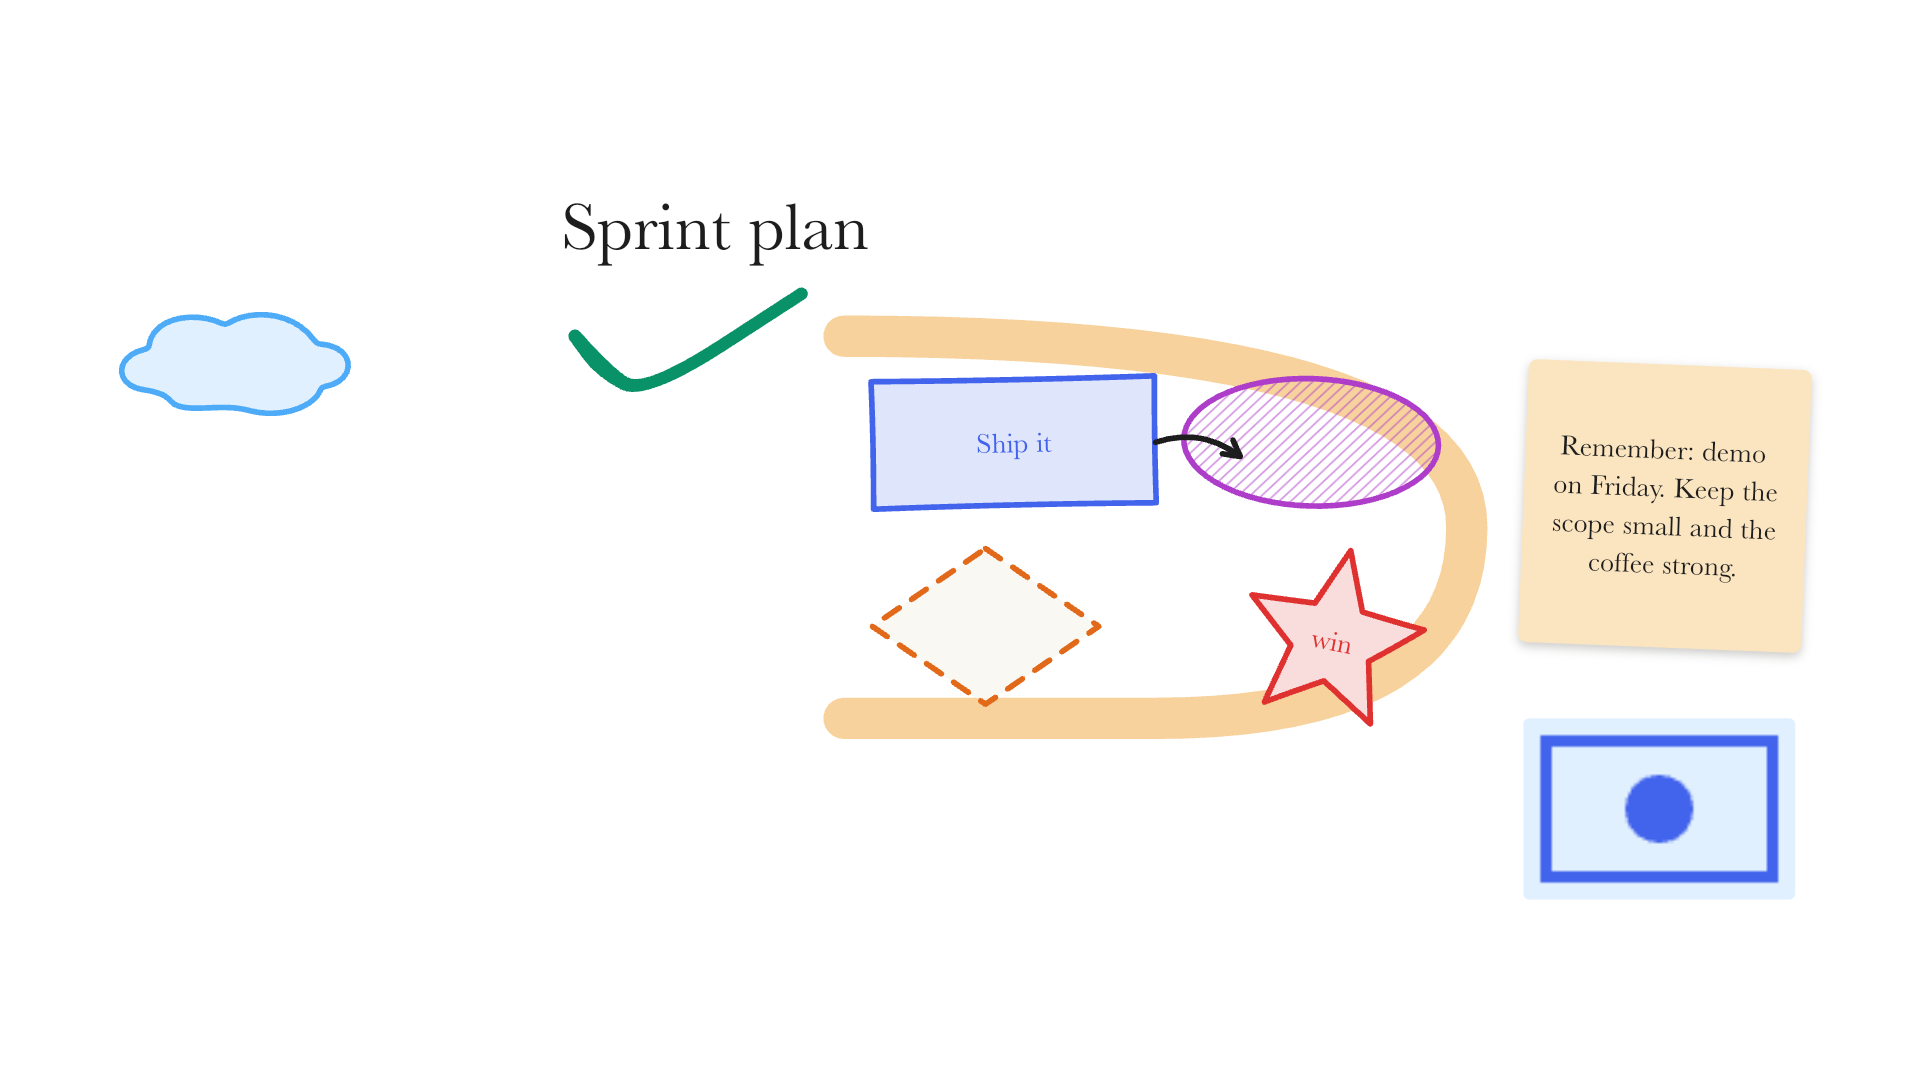
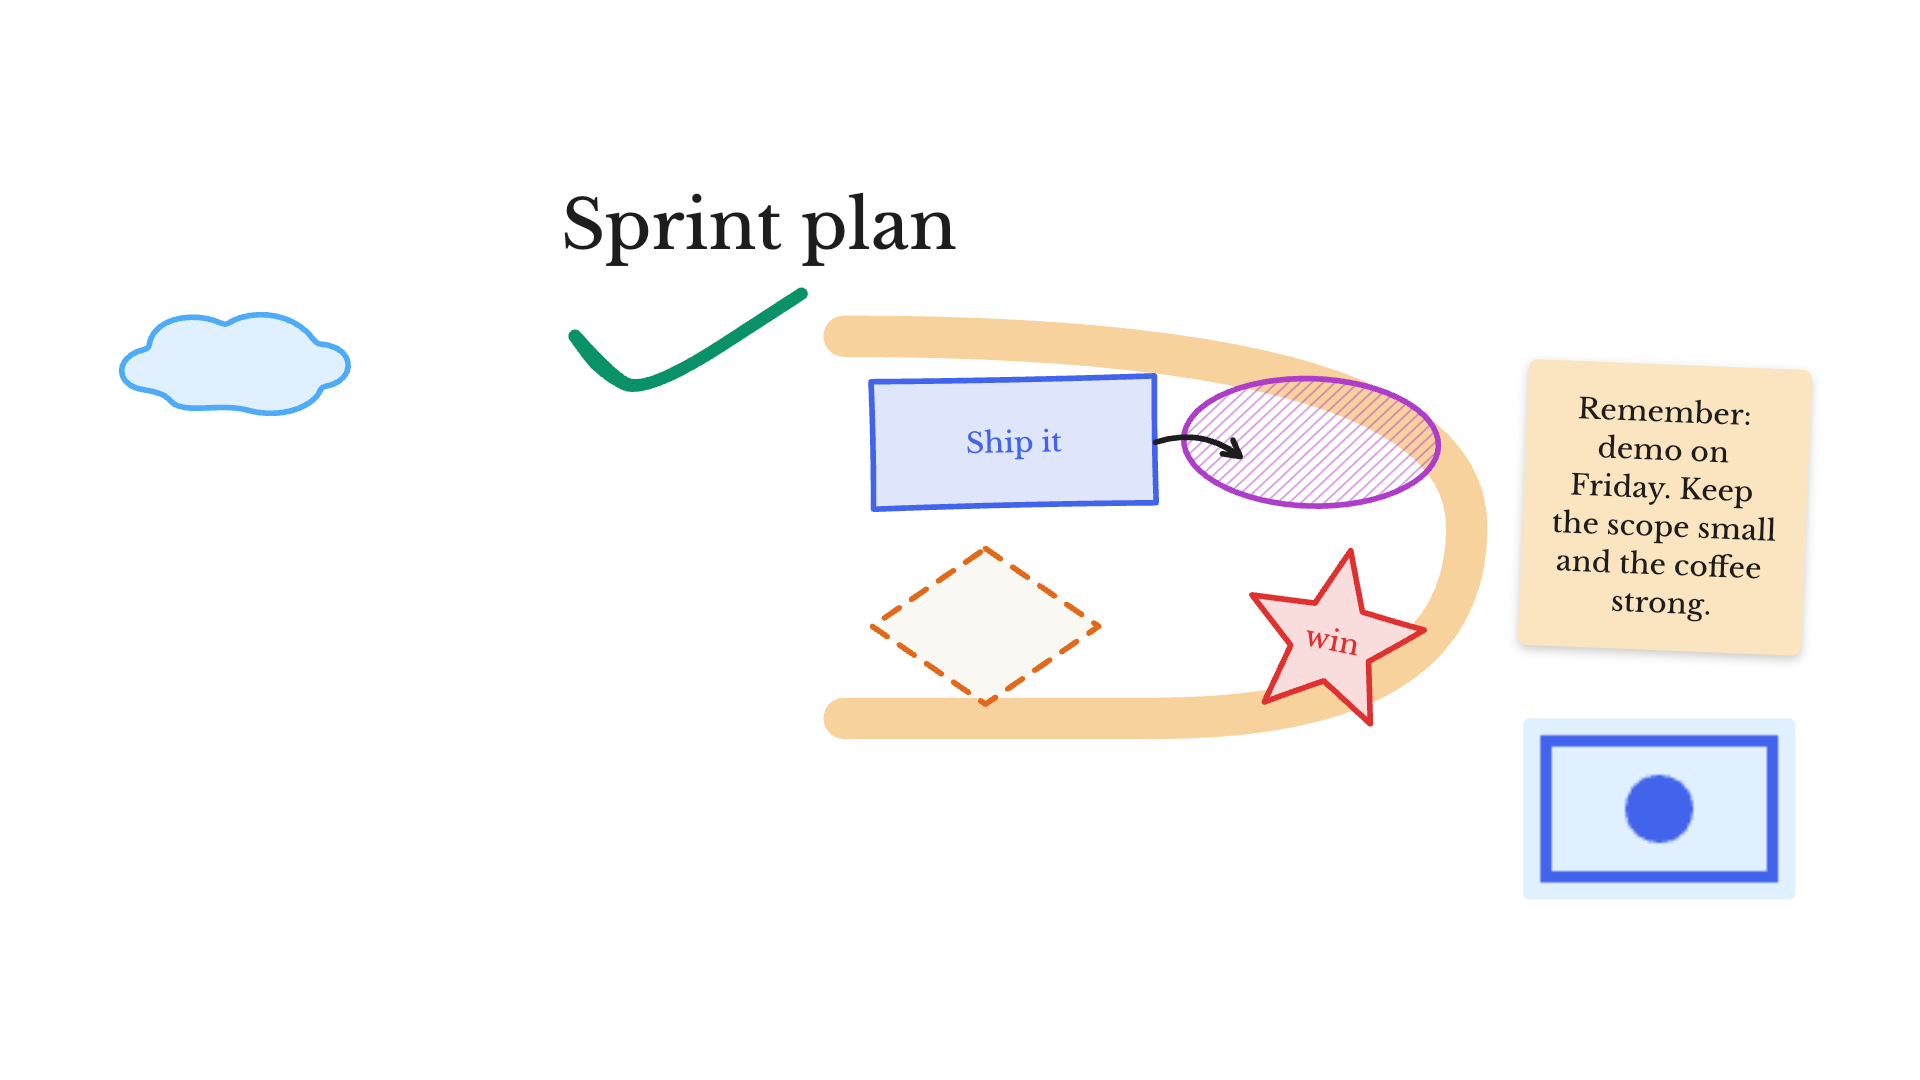
Headless fonts: single-word alias + merged TTF for exact browser metrics
skia-canvas never matched 'Quickdraw Hand' inside the engine's full font
stack (multi-word families only match standalone), so server text silently
measured with a fallback face while the browser used the real webfont.
Register one merged libre-baskerville-500.ttf under 'QuickdrawHand' (also
fixes woff2-shaping and last-file-wins hazards) and head the shared stack
with it; browsers resolve either name to identical files. Probe widths now
match the browser to 0.1px (stack 294.3, Georgia 248.0).

diff --git a/test/render.test.js b/test/render.test.js
@@ -320,16 +320,26 @@ describe('fonts', () => {
     await renderPng(new Store().getSnapshot(), { width: 32, height: 32, padding: 0 })
     const { fontsReady, fontFiles } = await import('../src/fonts.js')
     expect(fontsReady()).toBe(true)
-    // TTF: skia-canvas cannot shape from the woff2 files (silent wrong face)
-    expect(fontFiles().every((f) => f.endsWith('.ttf'))).toBe(true)
+    // Exactly one TTF: skia-canvas cannot shape from woff2, and for a
+    // multi-file family only the last file serves text (the other range
+    // degrades to .notdef) — the TTF is the merged latin+latin-ext face.
+    const files = fontFiles()
+    expect(files).toHaveLength(1)
+    expect(files[0].endsWith('.ttf')).toBe(true)
     const c = new Canvas(8, 8)
     const ctx = c.getContext('2d')
     const probe = 'Remember: demo on Friday'
-    ctx.font = `500 26px 'Quickdraw Hand', 'Libre Baskerville', Georgia, serif`
-    const hand = ctx.measureText(probe).width
-    // ...diverges from the generic serif a silent fallback would use
-    ctx.font = '500 26px serif'
-    expect(Math.abs(hand - ctx.measureText(probe).width)).toBeGreaterThan(10)
+    // the alias must resolve identically alone and inside the full stack:
+    // multi-word aliases fail inside font lists in skia-canvas, which is how
+    // the fallback slipped in undetected the first time
+    ctx.font = '500 20px QuickdrawHand'
+    const aliasOnly = ctx.measureText(probe).width
+    ctx.font = `500 20px 'QuickdrawHand', 'Quickdraw Hand', 'Libre Baskerville', Georgia, serif`
+    const stacked = ctx.measureText(probe).width
+    expect(stacked).toBeCloseTo(aliasOnly, 5)
+    // ...and the bundled Baskerville must actually be active, not a fallback
+    ctx.font = '500 20px serif'
+    expect(Math.abs(stacked - ctx.measureText(probe).width)).toBeGreaterThan(10)
     // ...and rasterizes differently from a Georgia fallback
     const render = (font) => {
       const c2 = new Canvas(400, 60)

diff --git a/src/fonts.js b/src/fonts.js
@@ -9,7 +9,12 @@ import { createRequire } from 'node:module'
 import { existsSync } from 'node:fs'
 import { join, dirname } from 'node:path'
 
-const FAMILY = 'Quickdraw Hand'
+// 'QuickdrawHand' (single word, no space): skia-canvas matches multi-word
+// family names only as a sole family, never inside a font list — and the
+// engine always measures/draws with the full stack — so the spaced alias
+// silently falls through to a wrong face. Same files either way; browsers
+// match both names via quickdraw.css.
+const FAMILY = 'QuickdrawHand'
 
 let registered = false
 
@@ -17,14 +22,13 @@ export function fontFiles() {
   const require = createRequire(import.meta.url)
   const coreRoot = dirname(require.resolve('@quickdrawjs/core/package.json'))
   const dir = join(coreRoot, 'src/fonts')
-  // Prefer TTF: skia-canvas parses woff2 metadata but cannot shape from it
-  // (silently falls back to a wrong face), while TTF renders the true face.
-  // The browser keeps using woff2 via quickdraw.css — same licensed files.
-  const ttf = [
-    join(dir, 'libre-baskerville-latin-500.ttf'),
-    join(dir, 'libre-baskerville-latin-ext-500.ttf'),
-  ]
-  if (ttf.every((f) => existsSync(f))) return ttf
+  // One merged TTF covering latin + latin-ext. Two reasons for exactly one
+  // file: skia-canvas cannot shape from woff2 (silently renders a fallback
+  // face), and for a multi-file family only the LAST registered file serves
+  // text — so split files leave one range as .notdef. The browser keeps using
+  // the split woff2 files via quickdraw.css — same licensed outlines.
+  const merged = join(dir, 'libre-baskerville-500.ttf')
+  if (existsSync(merged)) return [merged]
   return [
     join(dir, 'libre-baskerville-latin-500.woff2'),
     join(dir, 'libre-baskerville-latin-ext-500.woff2'),

diff --git a/README.md b/README.md
@@ -112,13 +112,18 @@ is never drawn.
 
 - **Fonts.** The hand font (`Quickdraw Hand` / Libre Baskerville, OFL —
   `packages/core/src/fonts/`) is registered with Skia before measuring, so
-  wrapping and layout use the real face. The server registers the TTF files:
-  skia-canvas cannot shape from the woff2 files (it reads their metadata but
-  renders a fallback face), while browsers keep using woff2 via
-  `quickdraw.css` — same licensed files either way. The `sans`/`serif`/`mono`
-  stacks fall back to Skia defaults, which differ from macOS/iOS system fonts;
-  text set in those faces may measure a few percent differently.
-  Antialiasing also differs slightly (Skia vs CoreGraphics/DirectWrite).
+  wrapping and layout use the real face and match the browser to 0.1px on
+  probe strings. Two skia-canvas quirks force the server onto a different
+  packaging of the same outlines: it cannot shape from woff2 (reads metadata,
+  renders a fallback), multi-word family names never match inside font lists,
+  and for a multi-file family only the last file serves text. So the server
+  registers one merged `libre-baskerville-500.ttf` (latin+latin-ext) under the
+  single-word alias `QuickdrawHand`, which heads the shared font stack;
+  browsers match either name to byte-identical woff2 files via
+  `quickdraw.css`, so nothing they render changes. The `sans`/`serif`/`mono`
+  stacks still fall back to Skia defaults, which differ from macOS/iOS system
+  fonts. Antialiasing also differs slightly (Skia vs CoreGraphics/DirectWrite),
+  so server text rasterizes a touch lighter than CoreText at the same weight.
 - **Highlighters on transparency.** Multiply blending is designed for paper;
   on a transparent background the band composites against nothing, so it reads
   denser than on the board. Prefer `background: 'theme'` for paper-faithful
